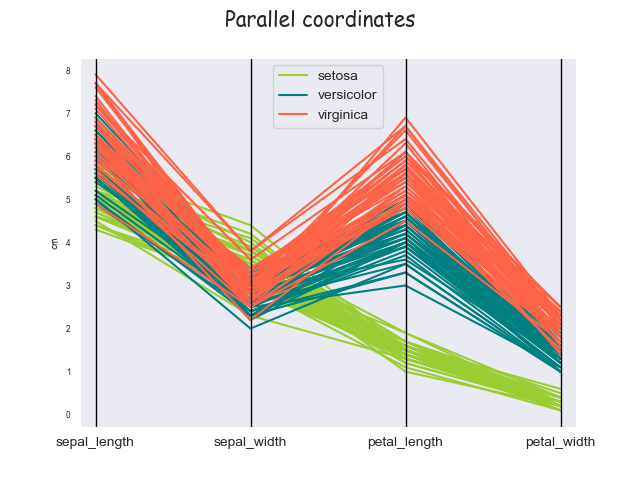
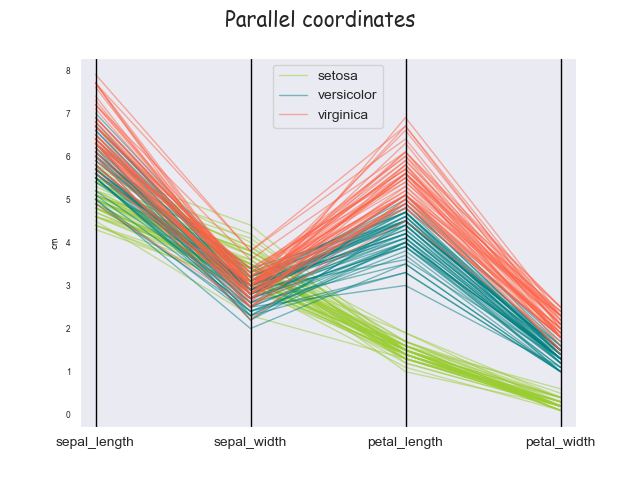
small tweaks

Changed region(s): [[0.125, 0.1562, 0.875, 0.875], [0.4375, 0.1875, 0.4688, 0.25]]

diff --git a/plot_functions.py b/plot_functions.py
@@ -35,7 +35,7 @@ def heatmap():
 
 # creates a parallel coordinates plot
 def parallel_coordinates():
-    pd.plotting.parallel_coordinates(iris, 'species', color=color_theme1)
+    pd.plotting.parallel_coordinates(iris, 'species', color=color_theme1, linewidth=1, alpha=0.5)
     plt.suptitle("Parallel coordinates", fontsize=15, fontname='fantasy')
     plt.xlim(-0.1,3.1) # increases plot dimension slightly so we can see the first and last lines
     plt.ylabel("cm", fontsize=7, fontname='fantasy')

diff --git a/README.md b/README.md
@@ -164,7 +164,7 @@ We used **matplotlib.pyplot** and **seaborn** for this section, imported as **pl
 
 >**seaborn** - "... is a Python data visualization library based on matplotlib. It provides a high-level interface for drawing attractive and informative statistical graphics."
 
-Visualising data makes it much easier to interpret and present. The libraries **matplotlib.pyplot**, and its relative **seaborn**, contain many powerful and highly effective analysis and visualisation tools, so I endeavoured to exploit them as much as I could.  
+Visualising data makes it much easier to interpret and present. The libraries **matplotlib.pyplot**, and its relative **seaborn**, contain many powerful and highly effective analysis and visualisation tools, so I endeavoured to exploit them as much as I could. I started out using matplotlib.pyplot exclusively as that was what we had been using during the labs and lectures, but it quickly became apparent that seaborn had more advanced features and a slicker output.
 I've set a global colour theme and grid style (**.set_style()**) for all of the visualisations to give a bit of consistency. I spent a lot of time formatting a lot of the stylistic elements including the various font sizes and styles; the legends; marker sizes and styles; linestyles and sizes, etc. This was both to make everything more aesthetically pleasing and also to make the information clearer and easier to interpret and understand.  
 All of the plots are created in functions for ease of recalling in the second part of this program. There is also an option in each function to save the plot to file - examples are already saved to the folder **Images** in this repositry.  
 
@@ -186,7 +186,7 @@ Parallel coordinates are an interesting way to view the data. Each row of the da
 
 The plot is created using pandas (**pd**) with the following code:  
 
-	pd.plotting.parallel_coordinates(iris, 'species', color=color_theme1)
+	pd.plotting.parallel_coordinates(iris, 'species', color=color_theme1, linewidth=1, alpha=0.5)
     plt.suptitle("Parallel coordinates", fontsize=15, fontname='fantasy')
     plt.xlim(-0.1,3.1) # increases plot dimension slightly so we can see the first and last lines
     plt.ylabel("cm", fontsize=7, fontname='fantasy')
@@ -195,7 +195,9 @@ The plot is created using pandas (**pd**) with the following code:
 
 **iris** refers to the dataset to be used - in this case the main Iris dataset  
 **'species'** is the column name, how we're separating the data  
-**color** is the color to be used for each class - in this case I have used my own theme  
+**color** is the color to be used for each class - in this case I have used my own theme
+**linewidth** - I decreased the linewidth slightly as it looked neater
+**alpha** is the transparency of the lines when they overlap
 **plt.suptitle** sets the main title with fontsize and style defined  
 **plt.xlim** increases the size of the x axis slightly so we can clearly see the demarcation for the first and last attributes  
 **plt.tick_params** formats the size of the tick parameters  
